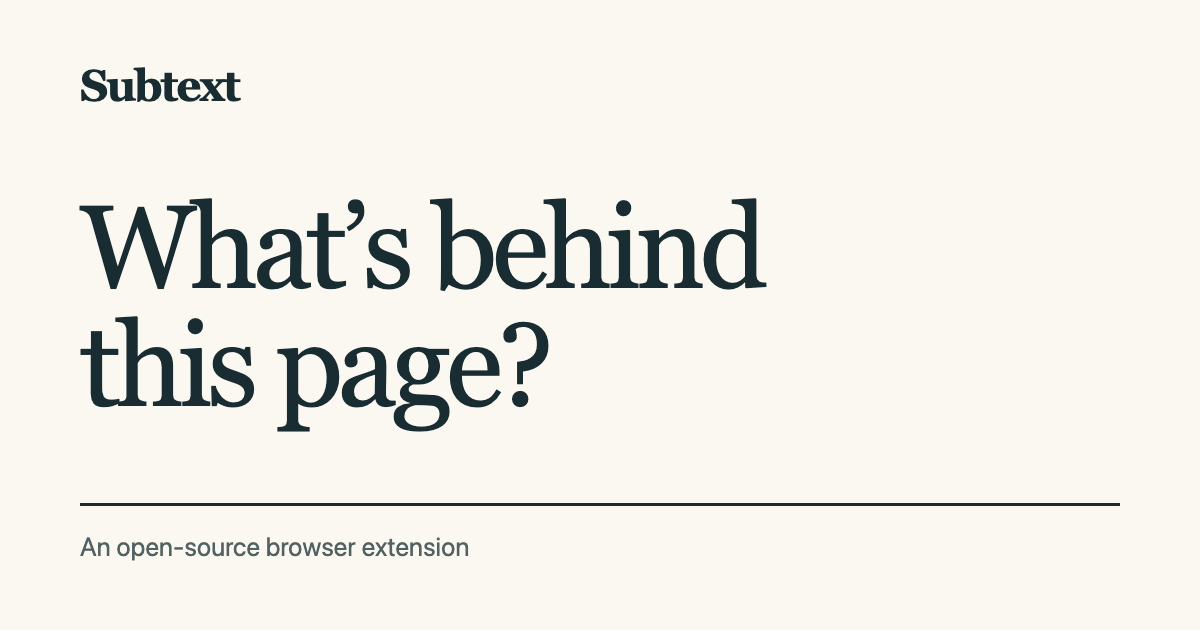
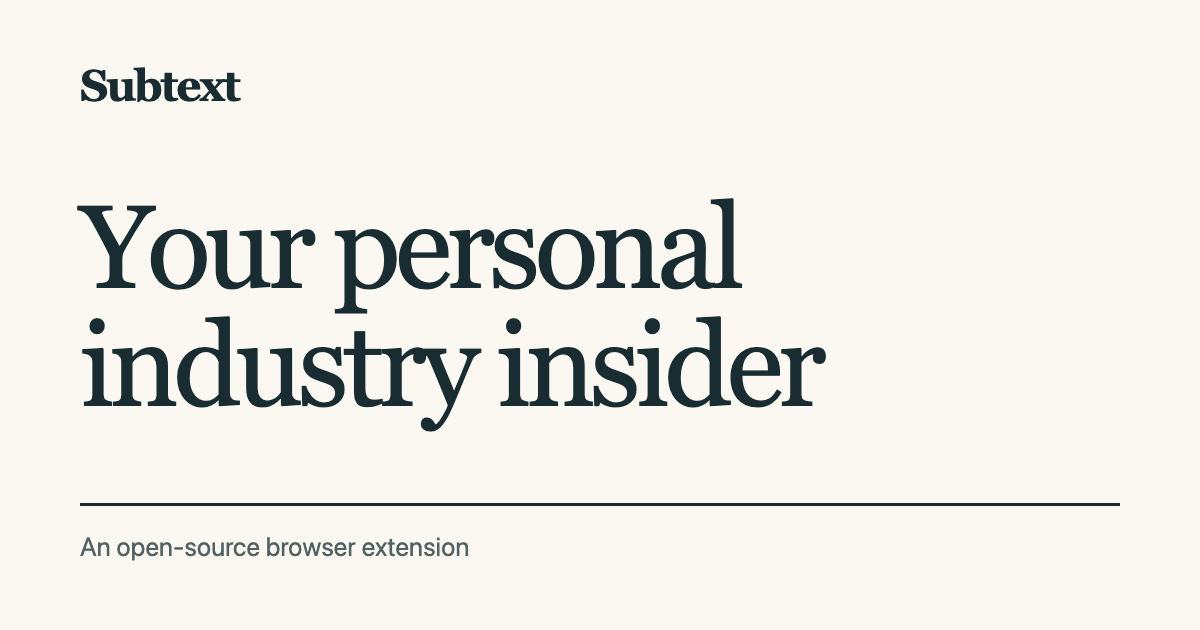
Landing page headline

Changed region(s): [[0.0617, 0.3016, 0.7092, 0.6937]]

diff --git a/index.html b/index.html
@@ -15,7 +15,7 @@
 <meta property="og:image" content="https://joshcs.github.io/subtext/assets/share-card.png">
 <meta property="og:image:width" content="1200">
 <meta property="og:image:height" content="630">
-<meta property="og:image:alt" content="The words: What’s behind this page? Subtext, an open-source browser extension.">
+<meta property="og:image:alt" content="The words: Your personal industry insider. Subtext, an open-source browser extension.">
 <meta name="twitter:card" content="summary_large_image">
 <link rel="icon" href="favicon.svg" type="image/svg+xml">
 <link rel="stylesheet" href="landing.css">
@@ -33,7 +33,7 @@
 <main id="main">
 <section class="hero wrap">
 <div>
-<h1>What’s behind<br>this page?</h1>
+<h1>Your personal industry insider</h1>
 <p class="intro">Subtext is a browser extension that helps you see who’s behind what you’re reading, what they want you to do, and the incentives behind their content.</p>
 <div class="actions">
 <a class="btn" href="#demo">Watch the 70-second walkthrough</a>

diff --git a/landing.css b/landing.css
@@ -114,3 +114,6 @@ h3{font:400 clamp(24px,2.4vw,34px)/1.13 var(--serif);letter-spacing:-.025em;marg
 @media(max-width:480px){nav a{white-space:nowrap;font-size:13px}.navcta{padding-inline:9px}}
 @media(max-width:360px){nav a:first-child{display:none}}
 @media(max-width:360px){.hero{padding-top:28px}}
+/* headline "Your personal industry insider" sets on two lines at every width (2026-11-18) */
+h1{font-size:clamp(46px,5.3vw,74px);line-height:1.02;text-wrap:balance}
+@media(max-width:740px){h1{font-size:min(11.5vw,60px)}}
